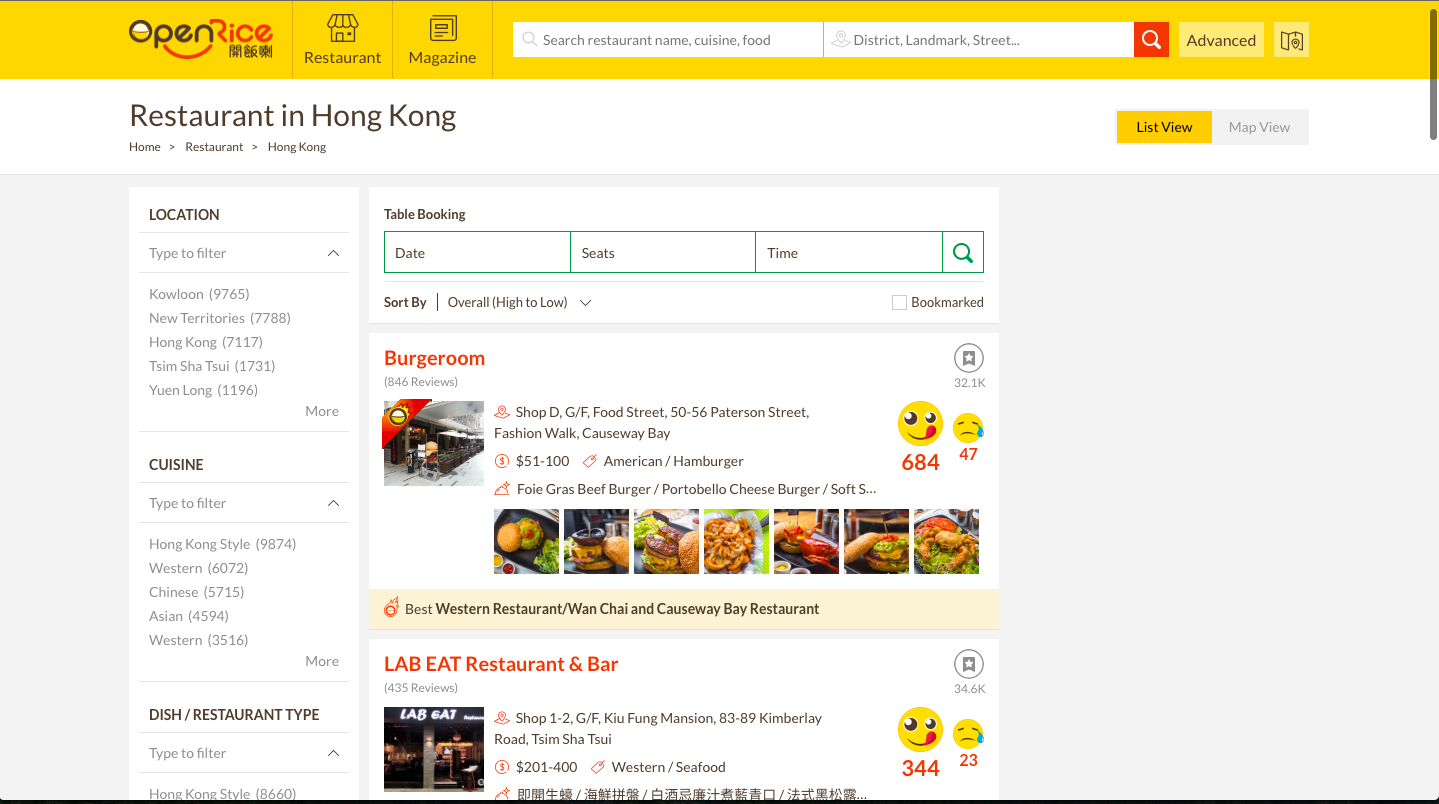
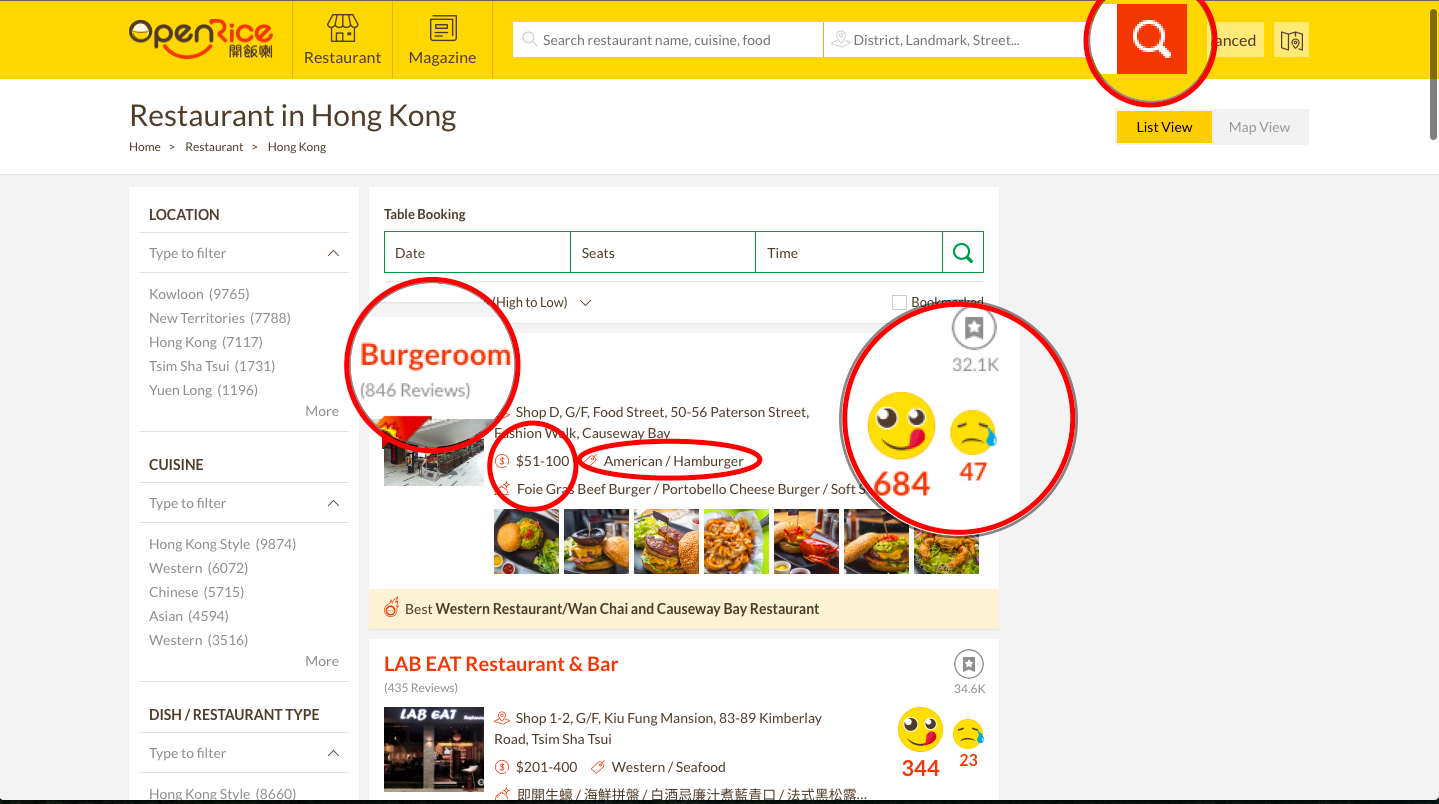
more

diff --git a/PITCHME.md b/PITCHME.md
@@ -56,6 +56,8 @@ Anybody who loves to <span class="gold">eat</span> (and <span class="gold">rate<
 
 - Scrape top rated restuarants from Openrice |
 
++++?image=assets/pic/openrice_restaurant_search_first.png
+
 +++?image=assets/pic/openrice_restaurant_search.png
 
 <!-- ![Image-Absolute](assets/pic/openrice_restaurant_search.png) -->
@@ -68,6 +70,8 @@ Anybody who loves to <span class="gold">eat</span> (and <span class="gold">rate<
 
 - <span class="darkgray"> Scrape top rated restuarants from Openrice</span>
 - Get each reviews and ratings |
+
++++?image=assets/pic/openrice_user_review_first.png
 
 +++?image=assets/pic/openrice_user_review.png
 
